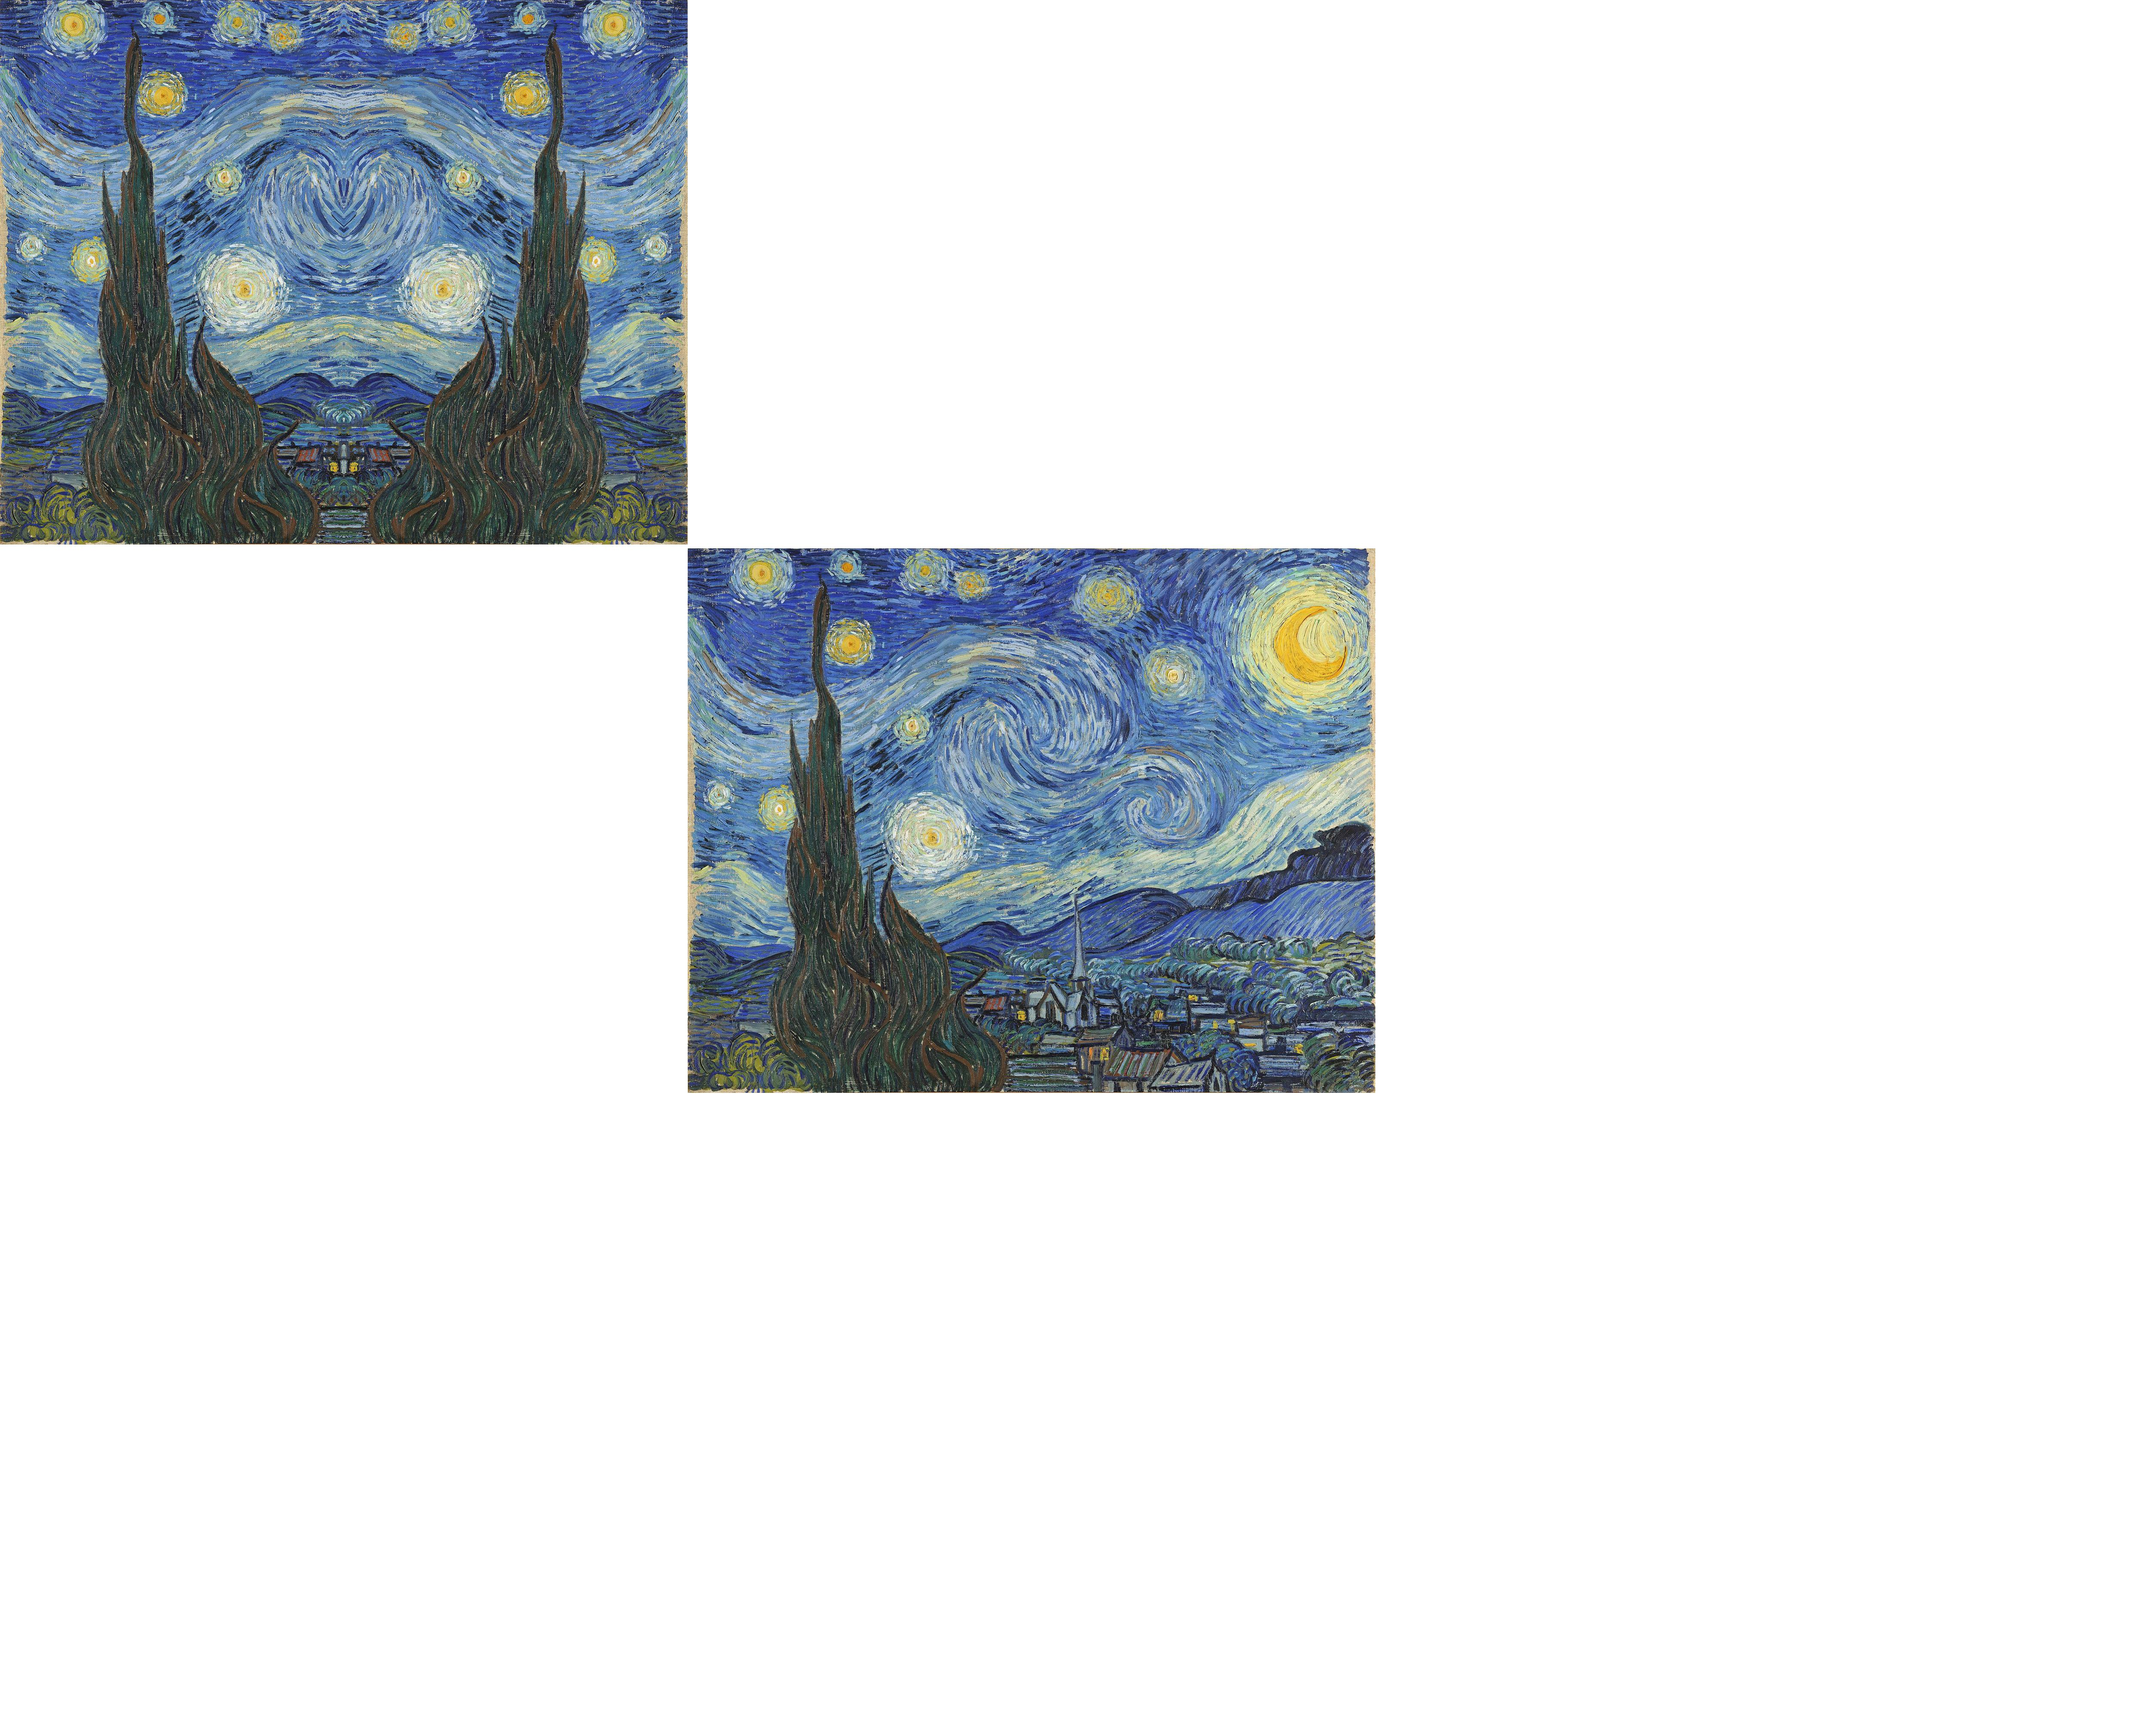
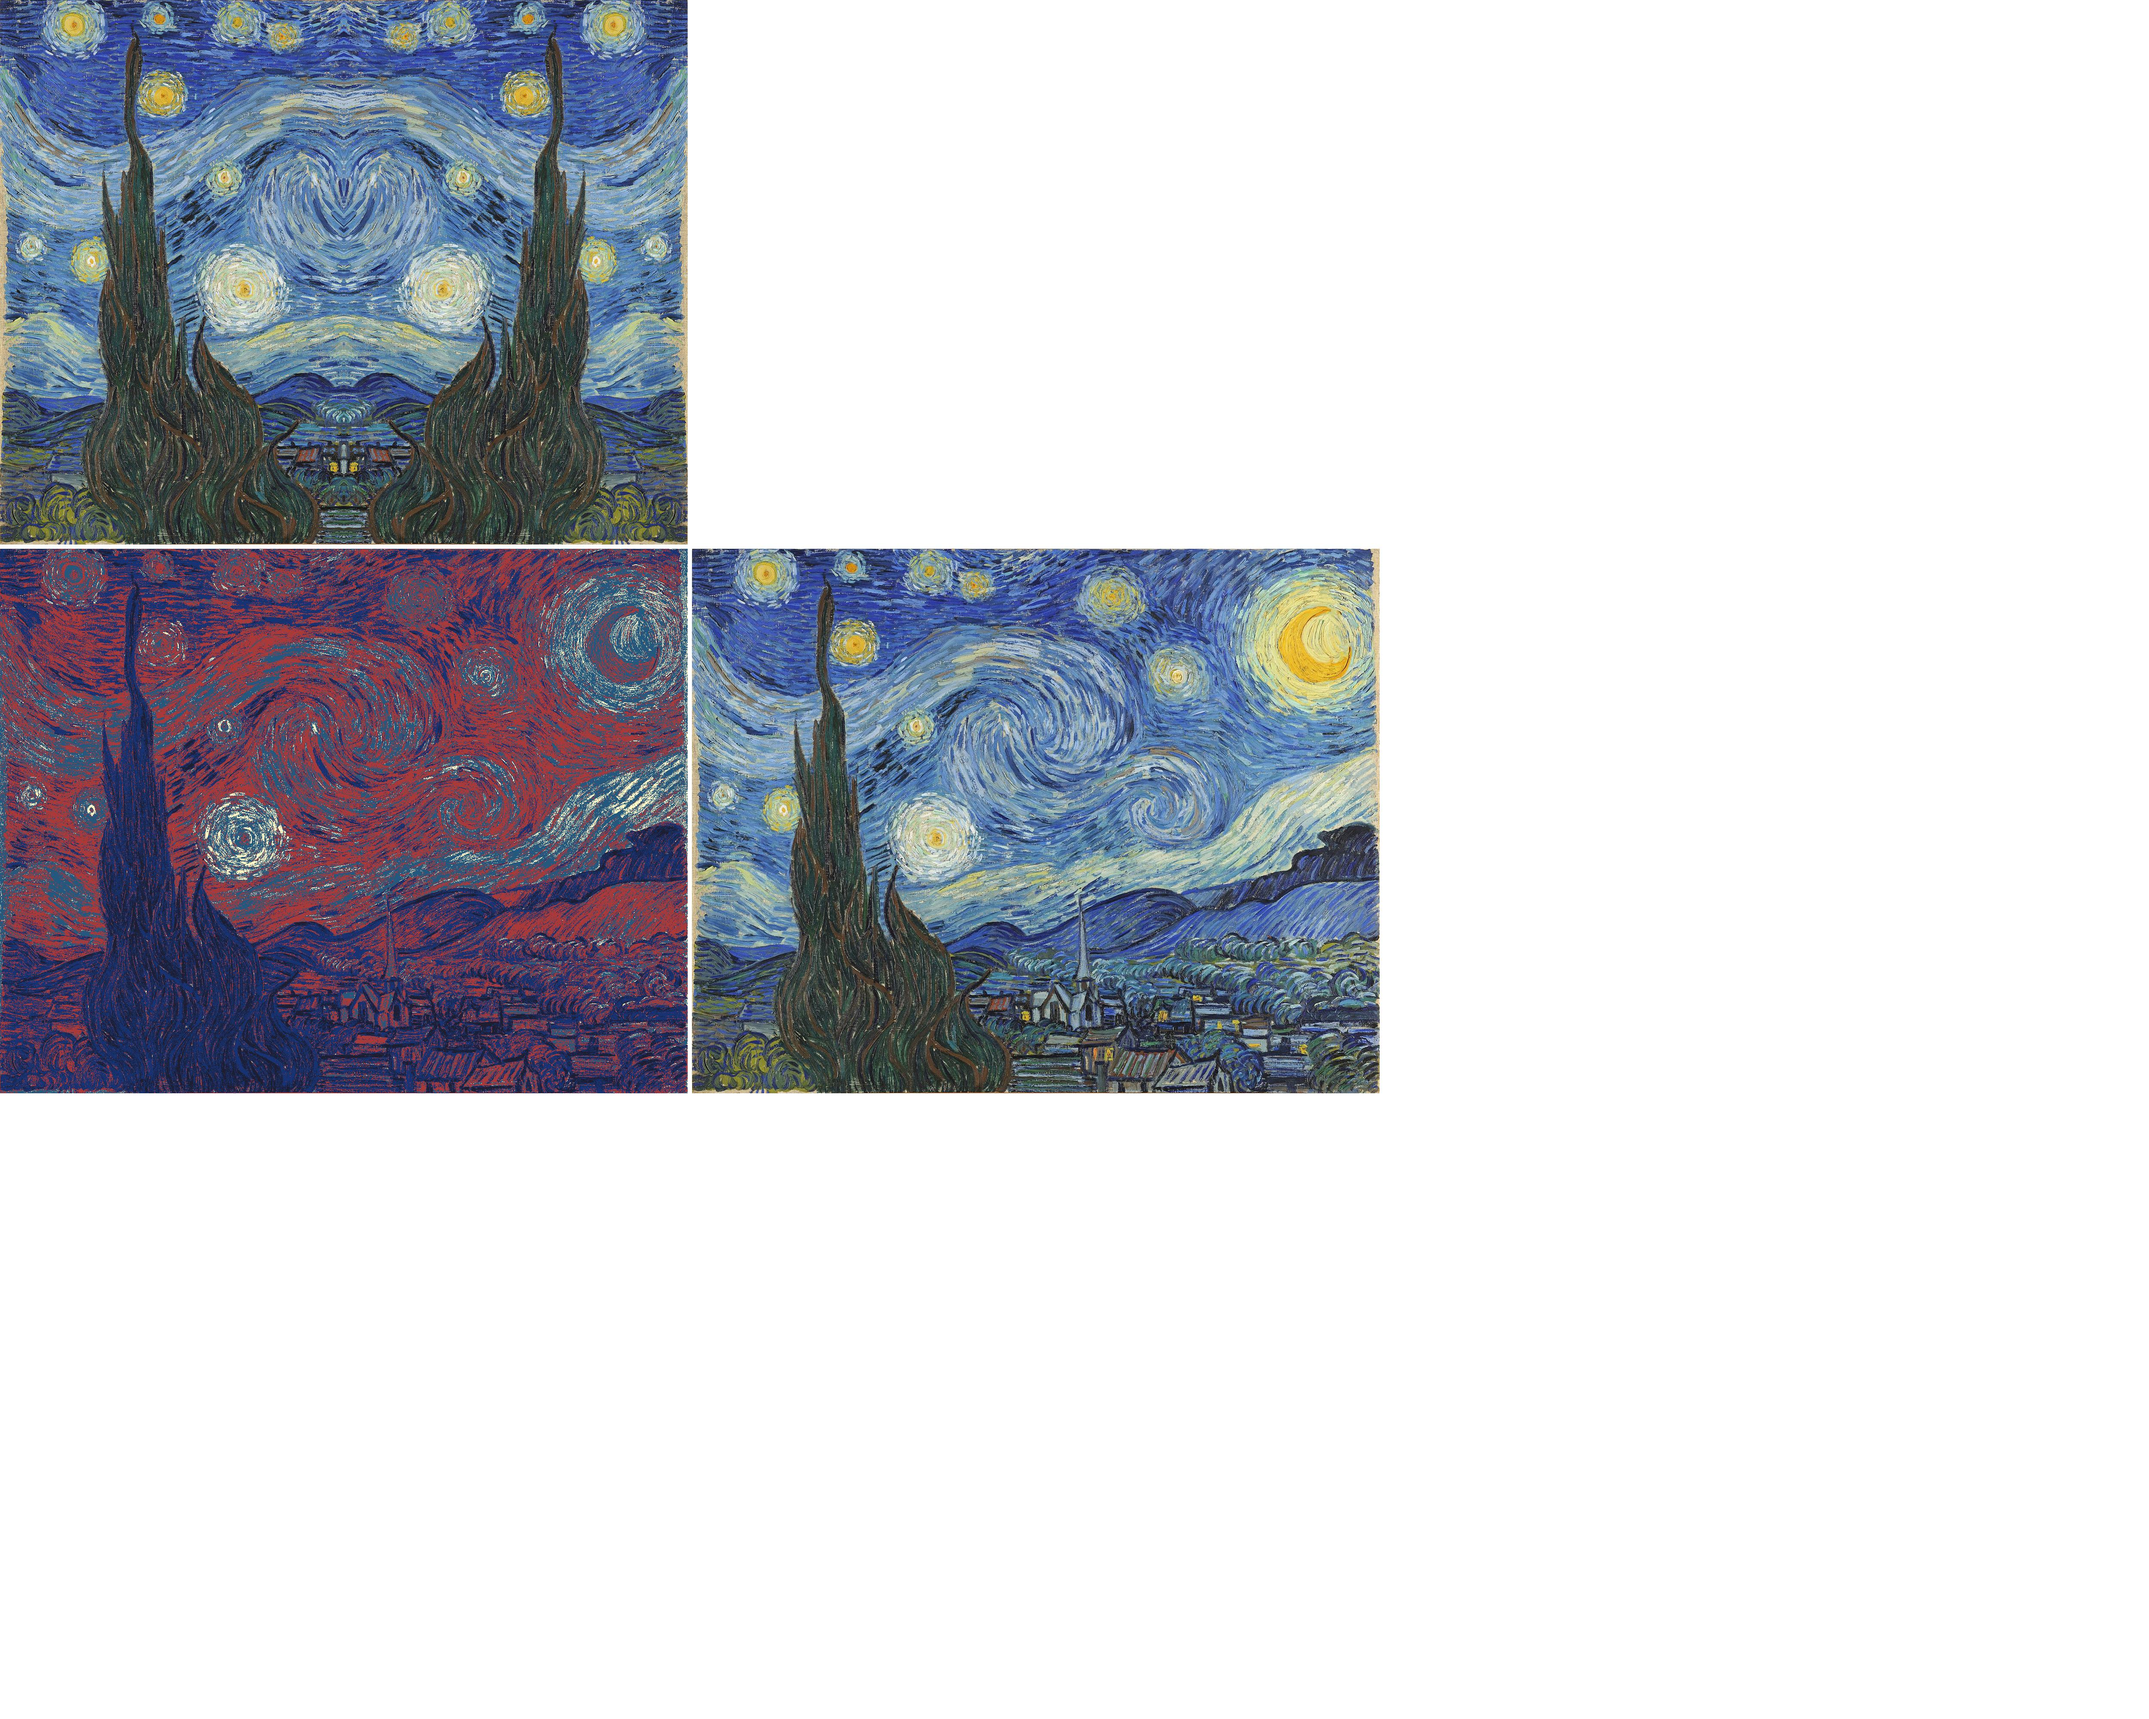
Fix blackwhite function

Changed region(s): [[0.0, 0.3125, 0.6552, 0.6562]]

diff --git a/ColorLabs17/FinalProj17.java b/ColorLabs17/FinalProj17.java
@@ -7,20 +7,24 @@
  */
 import java.awt.*;
 import java.util.*;
-import java.util.List; 
 public class FinalProj17
 {
     public static void main(String[] args)
     {
         Picture apic = new Picture("images\\The starry night.jpg");
         Picture canvas = new Picture("images\\Big.jpg");
-        Pixel[] pixels;
-        Pixel[] bixels;
-        pixels = apic.getPixels();
-        bixels = canvas.getPixels();
-        copytoCanvas(apic, canvas, 1600, 1276);
+        //Pixel[] pixels;
+        //Pixel[] bixels;
+        //pixels = apic.getPixels();
+        //bixels = canvas.getPixels();
+        copytoCanvas(apic, canvas, 1610, 1277);
         mirrorVertical(apic);
         copytoCanvas(apic, canvas, 0, 0);
+        apic = reset();
+        SheparFairey(apic);
+        copytoCanvas(apic, canvas, 0, 1277);
+        apic = reset();
+        blackwhite(apic);
     }
     public static void mirrorVertical(Picture apic){
         int width = apic.getWidth();
@@ -49,5 +53,80 @@ public class FinalProj17
             }
         }
         target.write("images/Canvas.jpg");
+    }
+    public static void SheparFairey(Picture apic){
+        Pixel[] pixels = apic.getPixels();
+        for(Pixel spot : pixels){
+            int red;
+            int blue;
+            int green;
+            int total = spot.getRed() + spot.getGreen() + spot.getBlue();
+            if (total < (255*3/5)){
+                red = 30;
+                blue = 50;
+                green = 30;
+            } else if (total < (255*3*2/5)) {
+                red = 23;
+                green = 51;
+                blue = 116;
+            } else if (total < (255*3*3/5)) {
+                red = 170;
+                green = 57;
+                blue = 57;
+            } else if (total < (255*3*4/5)){
+                red = 36;
+                green = 88;
+                blue = 126;
+            } else {
+                red = 255;
+                green = 245;
+                blue = 195;
+            }
+            spot.setRed(red);
+            spot.setGreen(green);
+            spot.setBlue(blue);
+        }
+    }
+    public static void blackwhite(Picture apic){
+        Pixel Pixel1 = null;
+        Pixel Pixel2 = null;
+        Pixel Pixel3 = null;
+        Pixel Pixel4 = null;
+        int color = 0;
+        for (int y = 0; y < 1265; y+=2){
+            for (int x = 0; x < apic.getWidth(); x+=2){
+                Pixel1 = apic.getPixel(x, y);
+                Pixel2 = apic.getPixel(x + 1, y);
+                Pixel3 = apic.getPixel(x, y + 1);
+                Pixel4 = apic.getPixel(x + 1, y + 1);
+                int total1 = Pixel1.getRed() + Pixel1.getGreen() + Pixel1.getBlue();
+                int total2 = Pixel2.getRed() + Pixel2.getGreen() + Pixel2.getBlue();
+                int total3 = Pixel3.getRed() + Pixel3.getGreen() + Pixel3.getBlue();
+                int total4 = Pixel4.getRed() + Pixel4.getGreen() + Pixel4.getBlue();
+                double pureTotal = total1 + total2 + total3 + total4;
+                double randomDouble = Math.random();
+                double target = (255 * 3 * 2);
+                double blockValue = pureTotal * randomDouble;
+                if (blockValue > target){
+                    color = 255;
+                }
+                Pixel1.setRed(color);
+                Pixel1.setGreen(color);
+                Pixel1.setBlue(color);
+                Pixel2.setRed(color);
+                Pixel2.setGreen(color);
+                Pixel2.setBlue(color);
+                Pixel3.setRed(color);
+                Pixel3.setGreen(color);
+                Pixel3.setBlue(color);
+                Pixel4.setRed(color);
+                Pixel4.setGreen(color);
+                Pixel4.setBlue(color);
+            }
+        }
+        apic.explore();
+    }
+    public static Picture reset(){
+        return new Picture("images\\The starry night.jpg");
     }
 }
